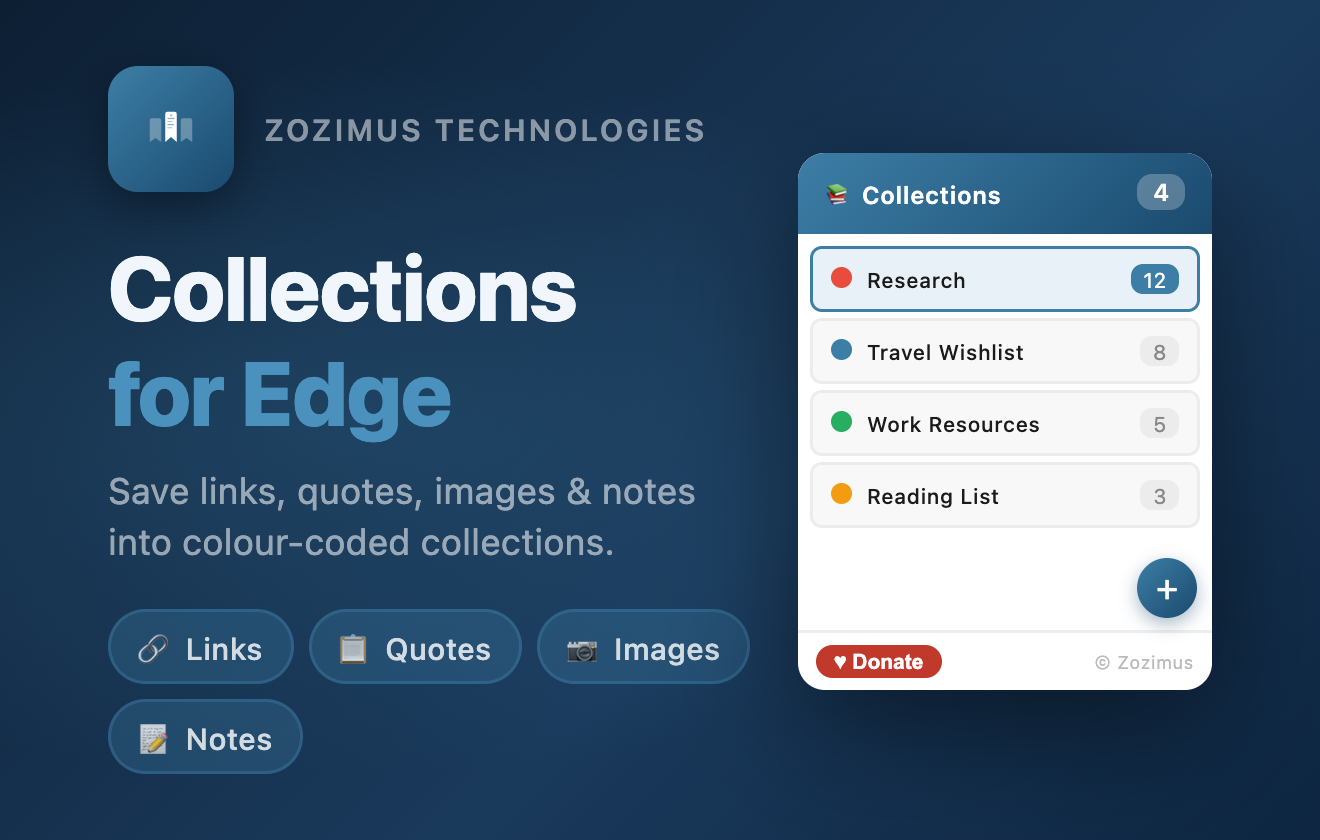
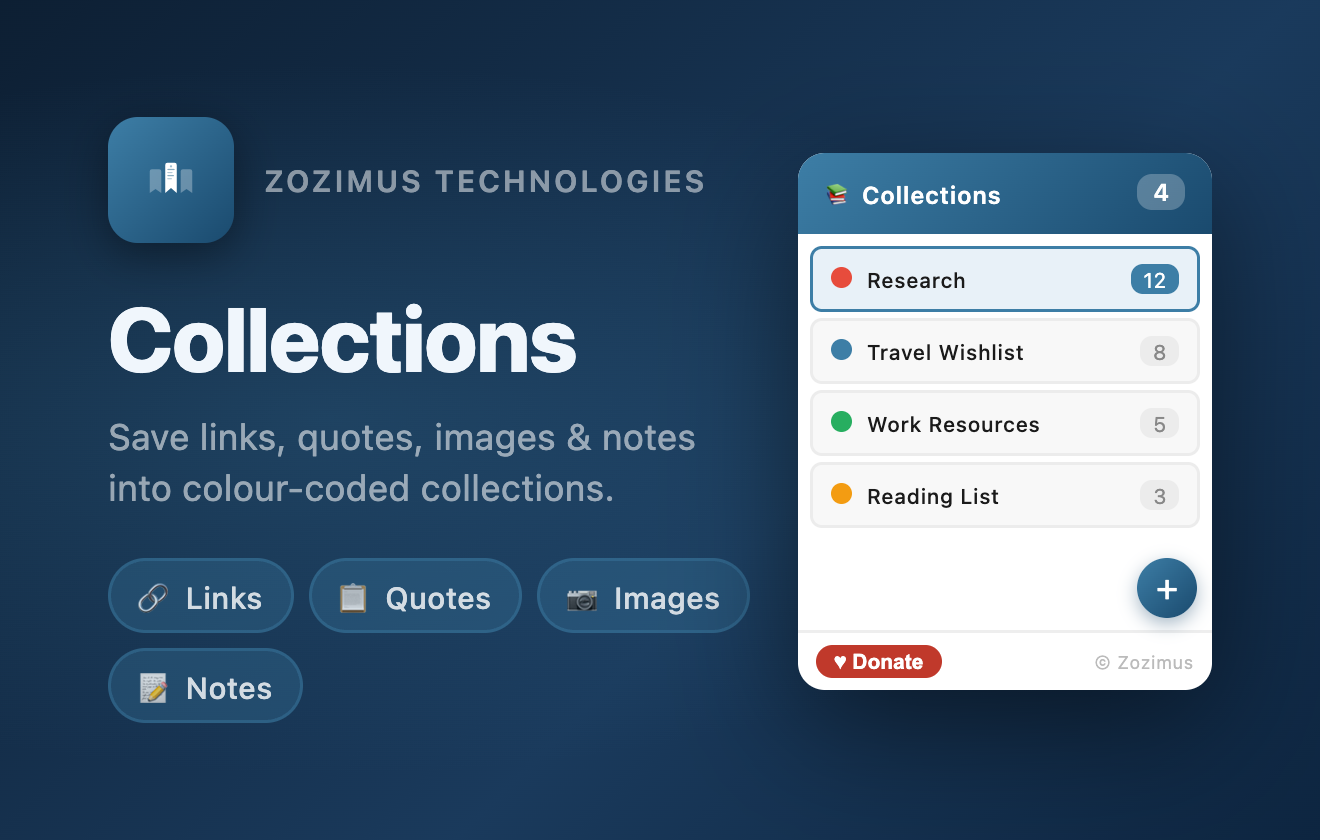
Rename: remove all traces of 'Collections for Edge' → 'Collections'

Changed region(s): [[0.0621, 0.0619, 0.5591, 0.9286], [0.1864, 0.1238, 0.528, 0.2476]]

diff --git a/docs/index.html b/docs/index.html
@@ -3,13 +3,13 @@
 <head>
   <meta charset="UTF-8">
   <meta name="viewport" content="width=device-width, initial-scale=1.0">
-  <title>Collections for Edge — Save Links, Quotes, Images &amp; Notes</title>
+  <title>Collections — Save Links, Quotes, Images &amp; Notes</title>
   <meta name="description" content="Collect and organize web content — links, quotes, images, and notes — right inside your browser sidebar.">
   <meta name="theme-color" content="#3d7ea6">
   <link rel="icon" type="image/png" sizes="48x48" href="https://raw.githubusercontent.com/zozimustechnologies/collectionsforedge/main/public/icons/icon-48.png">
   <link rel="apple-touch-icon" href="https://raw.githubusercontent.com/zozimustechnologies/collectionsforedge/main/storeassets/extensionlogo.png">
   <!-- Open Graph -->
-  <meta property="og:title" content="Collections for Edge">
+  <meta property="og:title" content="Collections">
   <meta property="og:description" content="Collect and organize web content — links, quotes, images, and notes — right inside your browser sidebar.">
   <meta property="og:image" content="https://raw.githubusercontent.com/zozimustechnologies/collectionsforedge/main/storeassets/largepromotionaltile.png">
   <meta property="og:url" content="https://zozimustechnologies.github.io/collectionsforedge/">
@@ -290,13 +290,13 @@
   <section class="hero">
     <img
       src="https://raw.githubusercontent.com/zozimustechnologies/collectionsforedge/main/public/icons/icon-128.png"
-      alt="Collections for Edge logo"
+      alt="Collections logo"
       class="hero-logo"
       width="100"
       height="100"
       onerror="this.src='https://raw.githubusercontent.com/zozimustechnologies/collectionsforedge/main/storeassets/extensionlogo.png'"
     >
-    <h1>Collections for Edge</h1>
+    <h1>Collections</h1>
     <p class="tagline">
       Bring back Edge Collections &mdash; save links, quotes, images, and notes into
       named collections, right inside your browser sidebar.
@@ -324,7 +324,7 @@
   <div class="banner">
     <img
       src="https://raw.githubusercontent.com/zozimustechnologies/collectionsforedge/main/storeassets/largepromotionaltile.png"
-      alt="Collections for Edge promotional banner"
+      alt="Collections promotional banner"
       width="1400"
       height="560"
       onerror="this.style.display='none'"
@@ -434,7 +434,7 @@
     <div class="screenshots">
       <img
         src="https://raw.githubusercontent.com/zozimustechnologies/collectionsforedge/main/storeassets/screenshot-1280x800.png"
-        alt="Collections for Edge — collections list view"
+        alt="Collections — collections list view"
         loading="lazy"
         width="1280"
         height="800"
@@ -442,7 +442,7 @@
       >
       <img
         src="https://raw.githubusercontent.com/zozimustechnologies/collectionsforedge/main/storeassets/screenshot-640x400.png"
-        alt="Collections for Edge — collection detail view with saved items"
+        alt="Collections — collection detail view with saved items"
         loading="lazy"
         width="640"
         height="400"

diff --git a/storeassets/tile-1400x560.html b/storeassets/tile-1400x560.html
@@ -82,7 +82,7 @@
       </div>
       <span class="brand-name">Zozimus Technologies</span>
     </div>
-    <h1>Collections<br><span>for Edge</span></h1>
+    <h1>Collections</h1>
     <p class="tagline">Save links, quotes, images, and notes into colour-coded collections — right in your sidebar.</p>
     <div class="pill-row">
       <div class="pill">&#128279; Links</div>

diff --git a/storeassets/tile-440x280.html b/storeassets/tile-440x280.html
@@ -59,7 +59,7 @@
       </div>
       <span class="brand">Zozimus Technologies</span>
     </div>
-    <h1>Collections<br><span>for Edge</span></h1>
+    <h1>Collections</h1>
     <p class="tag">Save links, quotes, images &amp; notes into colour-coded collections.</p>
     <div class="pills">
       <span class="pill">&#128279; Links</span>

diff --git a/storeassets/description.md b/storeassets/description.md
@@ -1,4 +1,4 @@
-# Collections for Edge — Edge Add-ons Store Description
+# Collections — Edge Add-ons Store Description
 
 ---
 
@@ -10,7 +10,7 @@ Collect and organize web content — links, quotes, images, and notes — in nam
 
 ## Full Description
 
-**Collections for Edge** brings back the beloved Microsoft Edge Collections feature that was deprecated — and improves on it.
+**Collections** brings back the beloved Microsoft Edge Collections feature that was deprecated — and improves on it.
 
 Save anything from the web into named, colour-coded collections without ever leaving your current tab. The extension lives entirely in your browser's sidebar.
 

diff --git a/README.md b/README.md
@@ -1,4 +1,4 @@
-# Collections for Edge
+# Collections
 
 A browser extension that recreates the deprecated Microsoft Edge Collections feature — collect and organize links, quotes, images, and notes from anywhere on the web.
 
